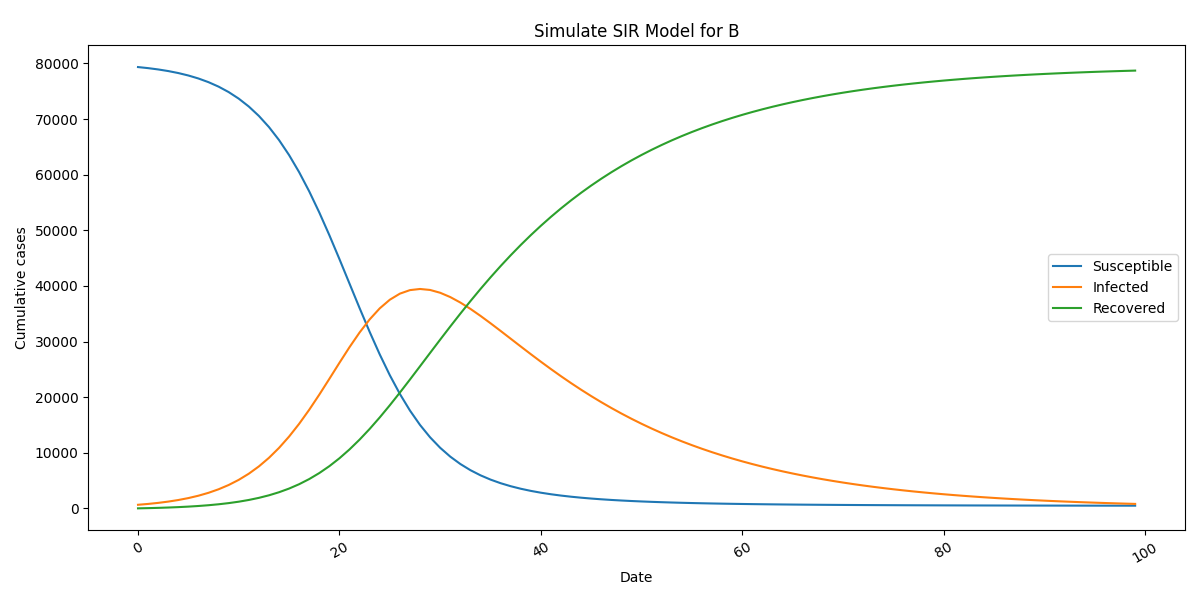
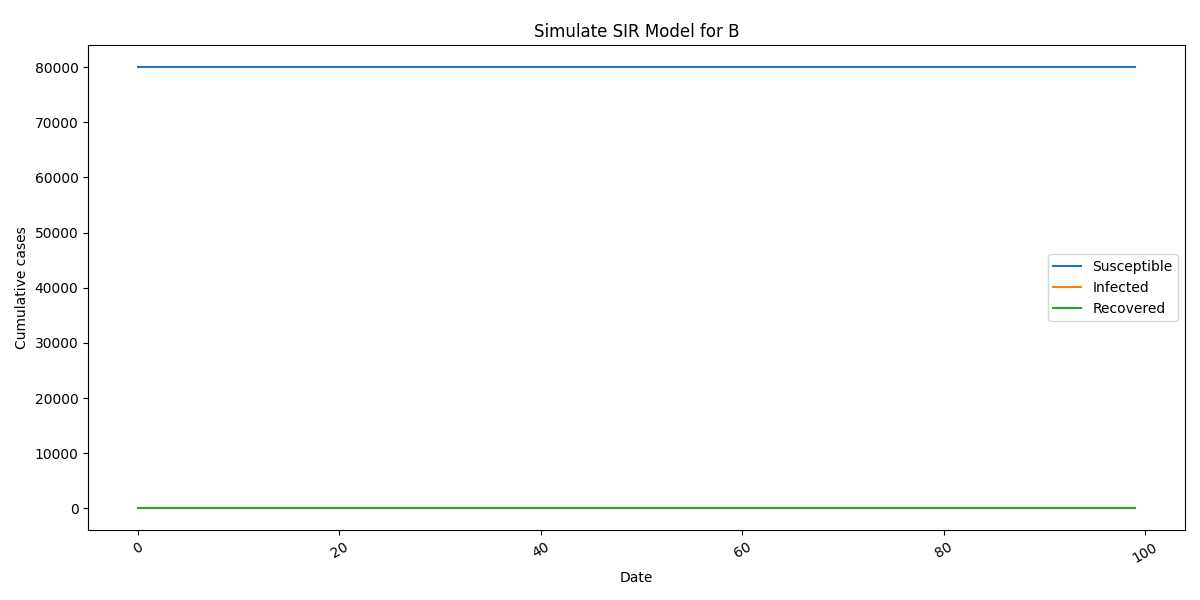
test results

diff --git a/src/main.py b/src/main.py
@@ -61,7 +61,11 @@ def simulate_flow():
     N = np.asarray(populations, dtype=float)
 
     # 0.1% - 1% initially infected
-    infected_fraction = np.random.uniform(0.001, 0.01, n)
+    # infected_fraction = np.random.uniform(0.001, 0.01, n)
+    
+    # only first node has initially infected individuals
+    infected_fraction = np.zeros(n)
+    infected_fraction[0] = 0.05  # 1% of the first node is initially infected
 
     I0 = N * infected_fraction
     R0 = np.zeros(n)
@@ -75,19 +79,22 @@ def simulate_flow():
     ])
     # simulate isolated version 
     clusters = Clusters(nodes)
-    clusters.random_initializer()
+    clusters.random_initializer(beta_range=(0.2, 0.3), gamma_range=(0.05, 0.1))
     cluster_theta = clusters.get_all()
     print(cluster_theta)
     cluster_initial_state = {node.id: initial_state[i] for i, node in enumerate(nodes)}
     cluster_predictions = clusters.predict_all(start=0, end=T-1, thetas=cluster_theta, initial_states=cluster_initial_state)
     clusters.plot_all(cluster_predictions, start=0, end=T-1, save_path="results/clusters")
+    flow_strength = 1.0
+    flow_matrix = np.array([
+                [0,    1000,    0,  500],
+                [1000,    0,  800,    0],
+                [0,     800,    0, 1200],
+                [500,     0, 1200,    0],
+            ])
+    
     F = pd.DataFrame(
-        [
-            [0,    1000,    0,  500],
-            [1000,    0,  800,    0],
-            [0,     800,    0, 1200],
-            [500,     0, 1200,    0],
-        ],
+        flow_matrix * flow_strength,
         index=node_ids,
         columns=node_ids,
         dtype=float,
@@ -104,7 +111,7 @@ def simulate_flow():
         mode="simulate",
         method="euler",
     )
-    network.set_beta_travel(10.0)
+    network.set_beta_travel(1.0)
     theta = network.model.get()
     states = network.predict(
         start=0,
